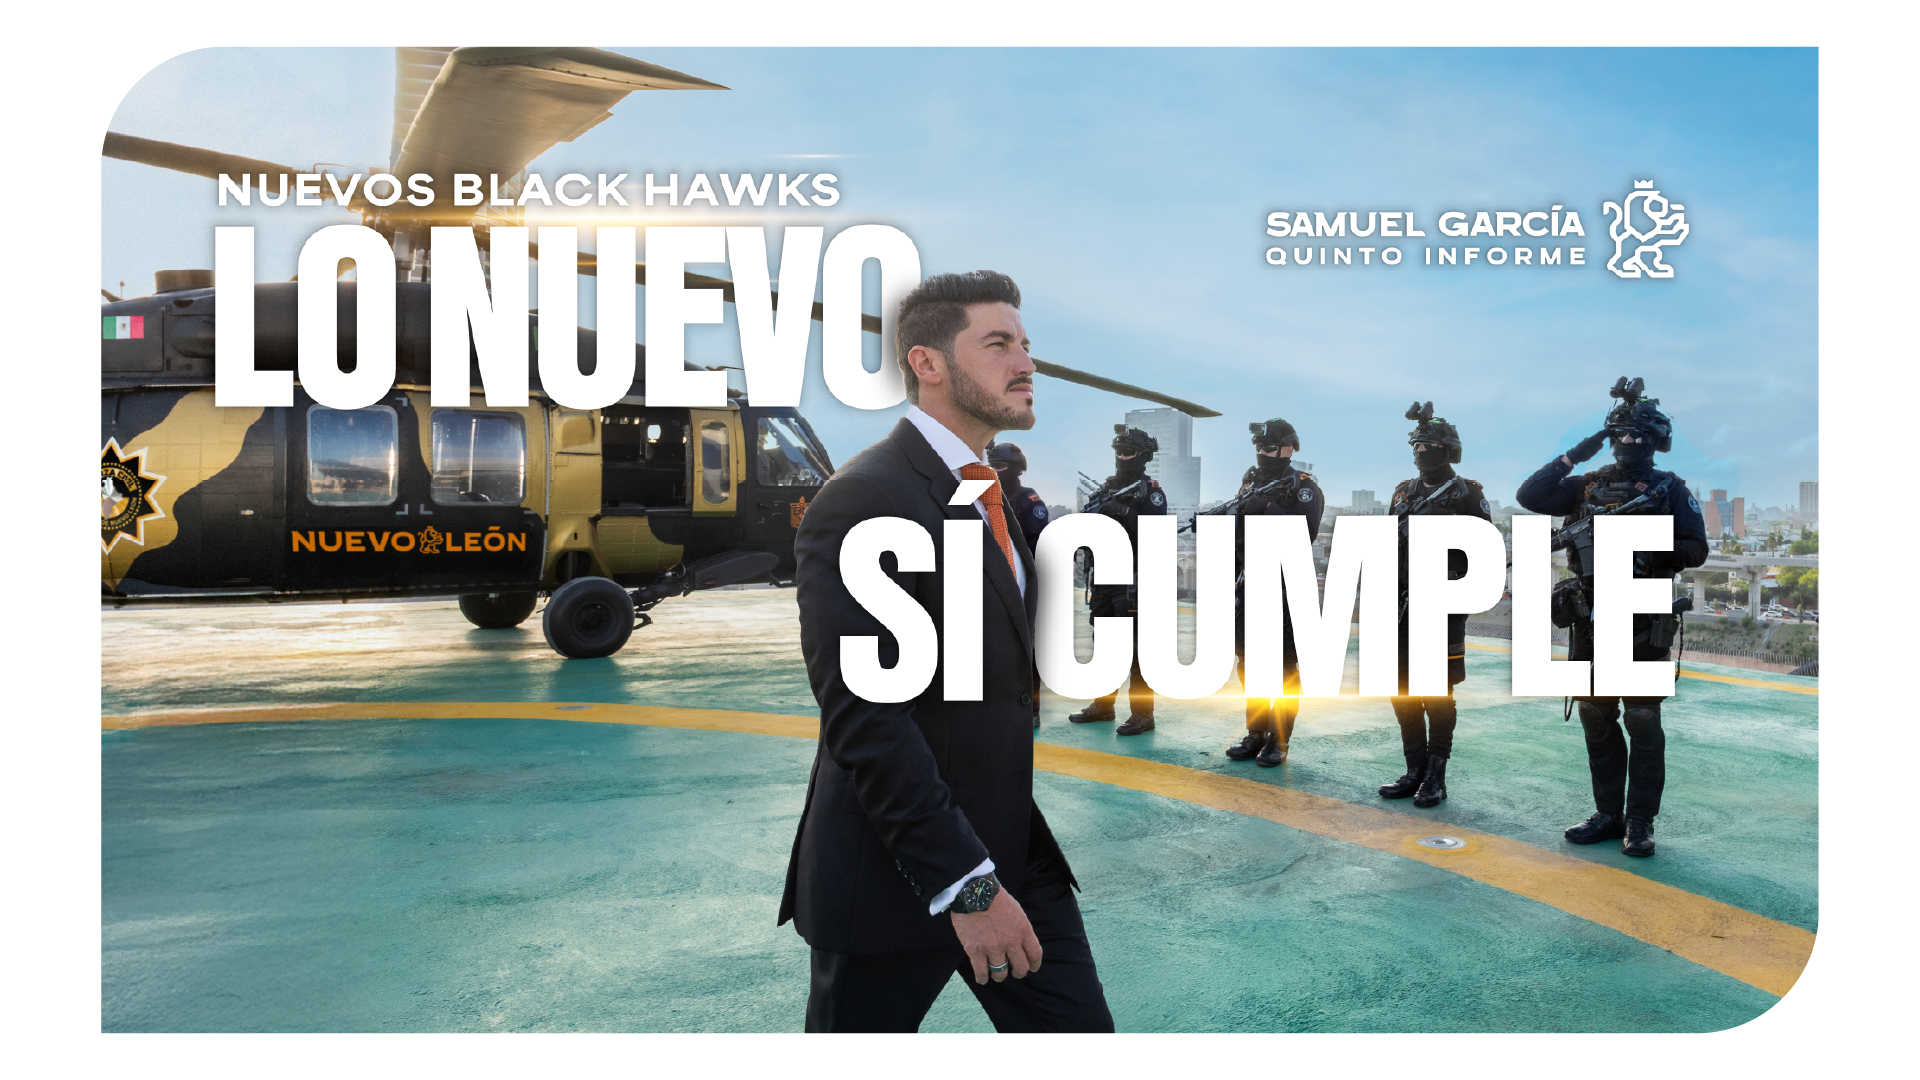
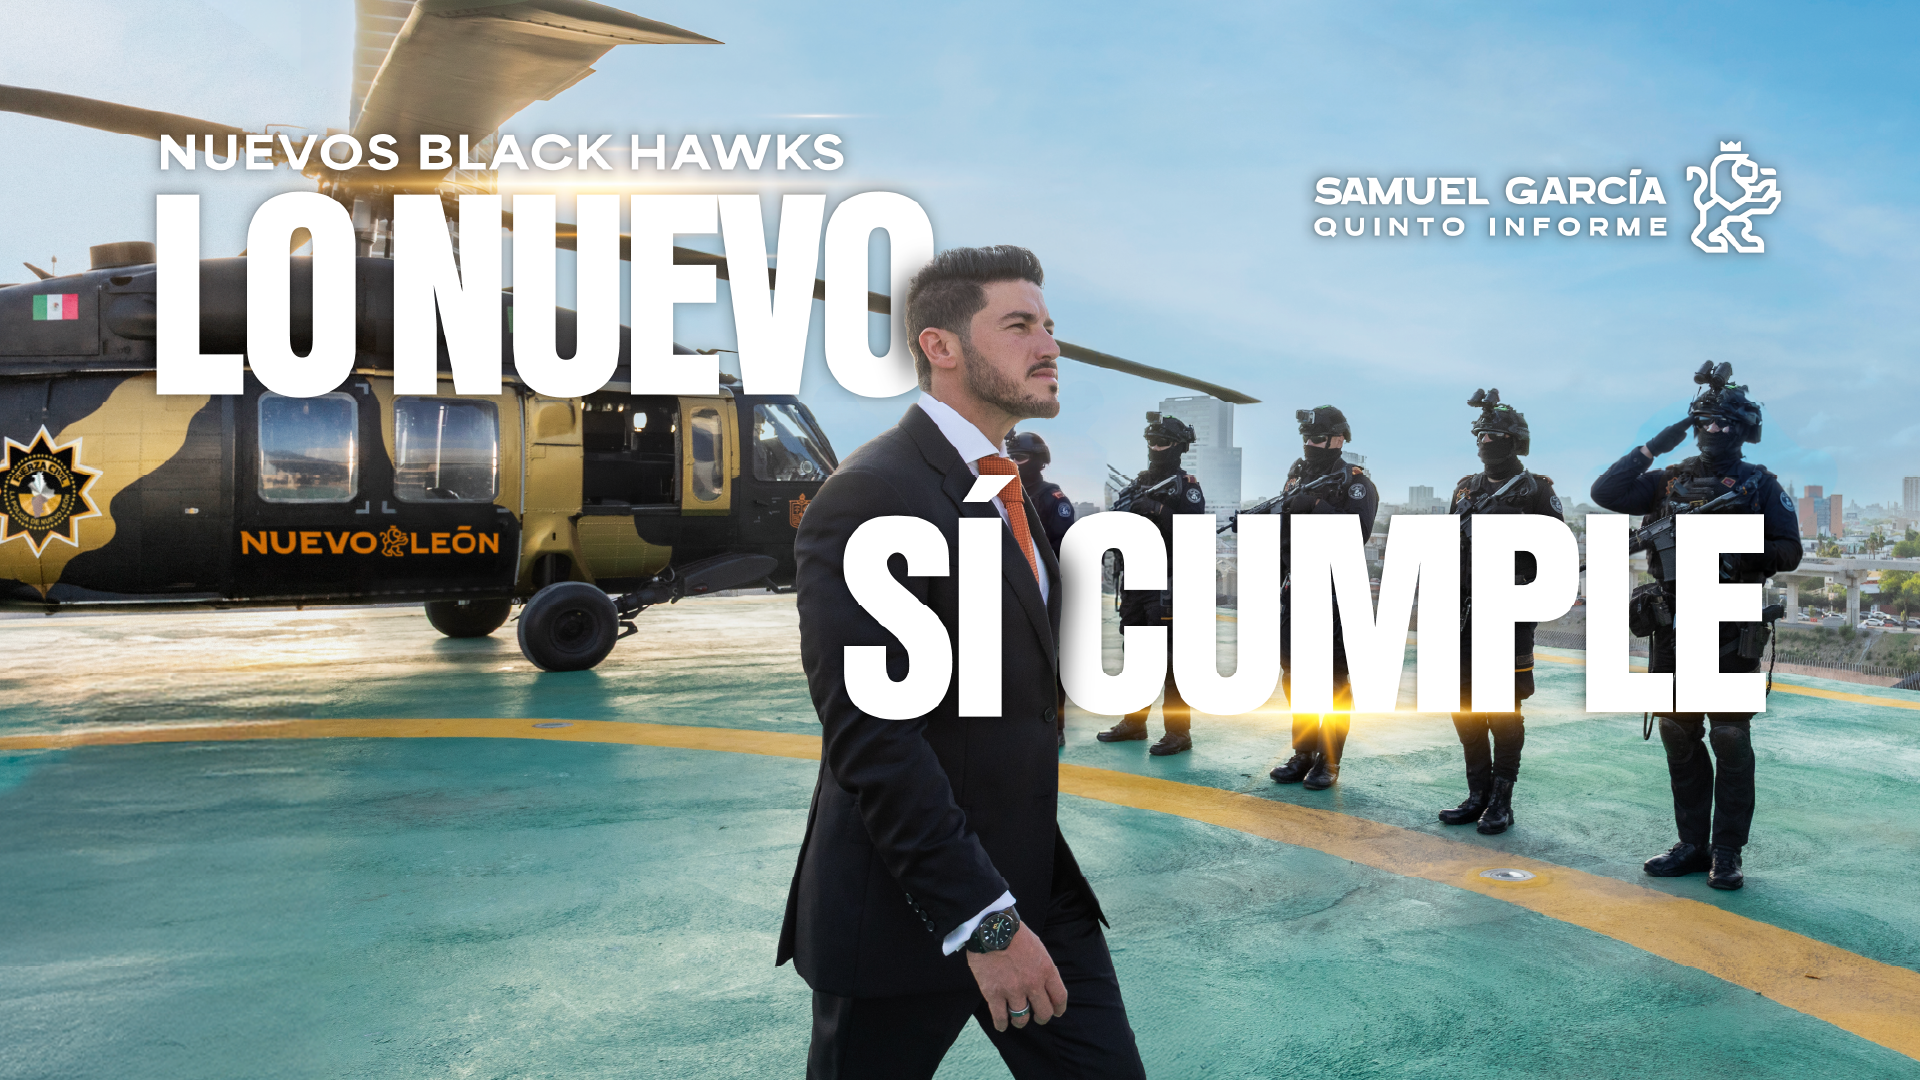
fix: carousel working and images cover the whole component

diff --git a/src/styles/global.css b/src/styles/global.css
@@ -345,6 +345,10 @@ ol {
 	scroll-snap-align: start;
 }
 
+.carousel__slide picture {
+    display: initial;
+}
+
 .carousel__slide img {
 	width: 100%;
 	height: 100%;
